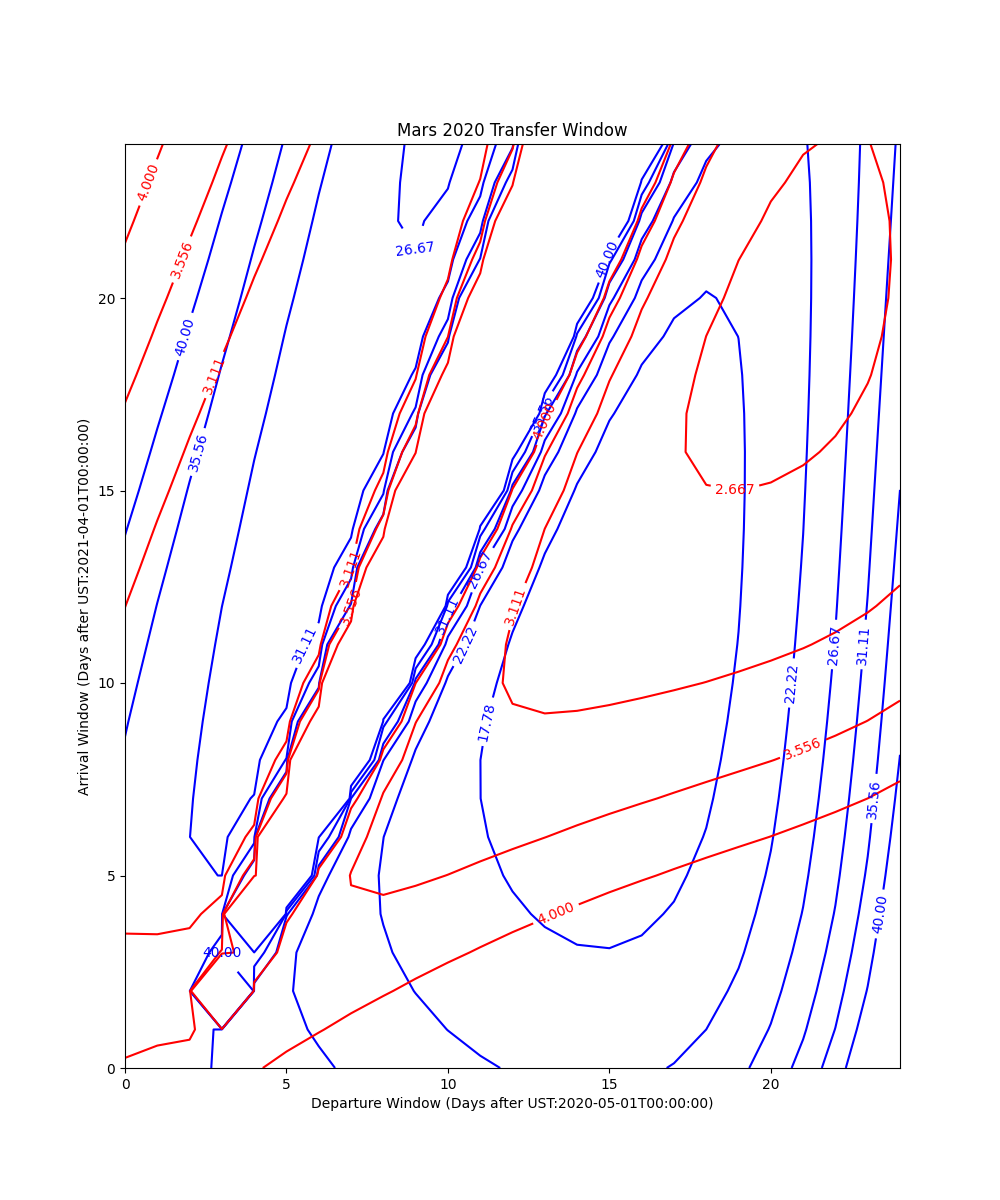
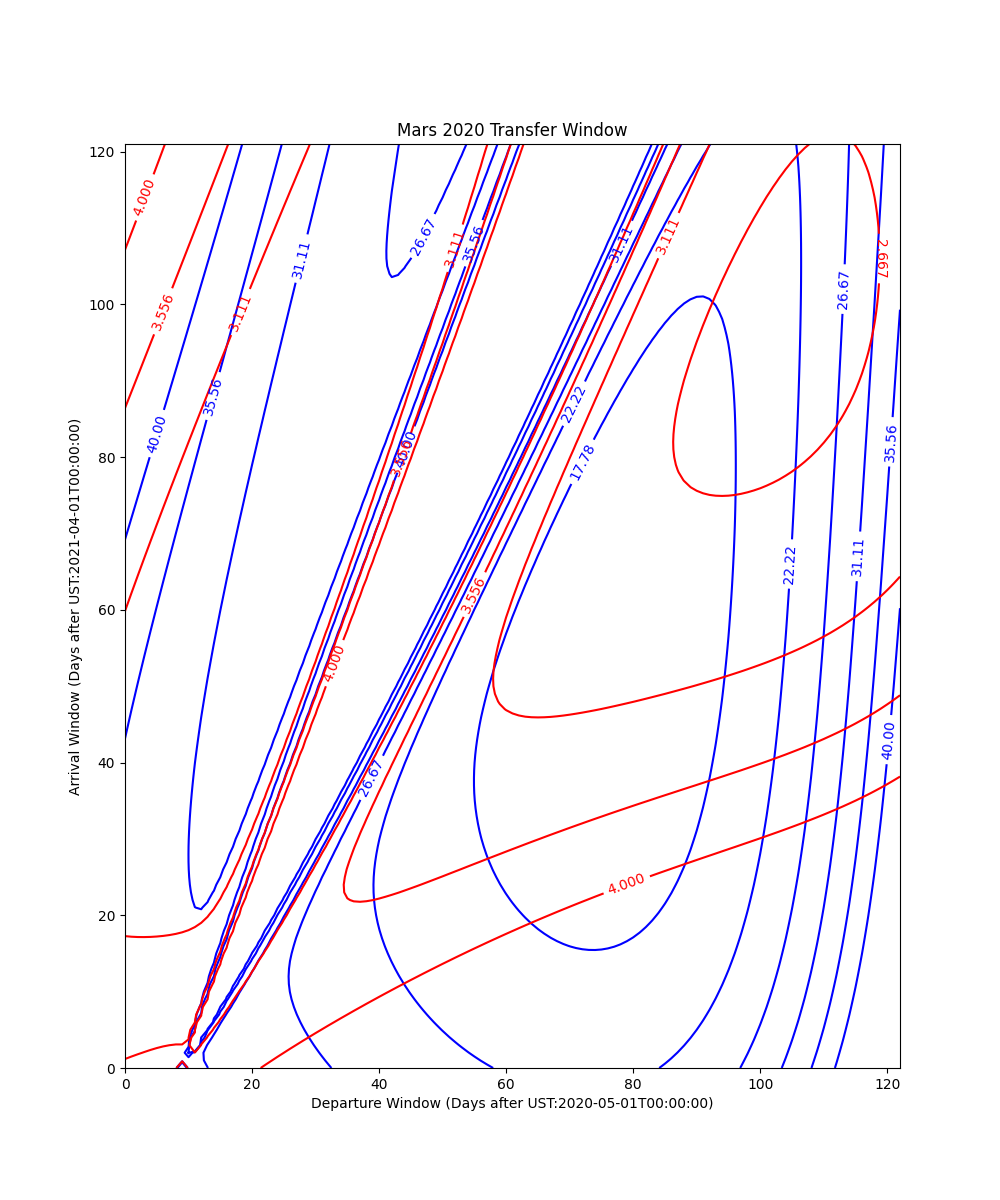
get_min_dist() computes the minimum displacement between the probe and the target planet on a given trajectory. The idea being that we can perturb the solved velocity to yield a closer encounter.

diff --git a/Gravitas_4.0/encounters.py b/Gravitas_4.0/encounters.py
@@ -40,11 +40,9 @@ def get_ephemeris_time(lower_bond, upper_bound, time_step):
     eph0, eph1 = spice.str2et(lower_bond), spice.str2et(upper_bound)
     return np.arange(eph0, eph1, time_step)
 
-
 def get_trajectory_data(origin, ets, frame, abcorr, observer):
     """Get position data array from time array"""
     return [spice.spkezr(origin, et, frame, abcorr, observer)[0] for et in ets]
-
 
 def load_ephemeris_arrays(dict_values,d_t0,a_t0,bdy_tag):
     """Returns position and velocity arrays for both departure and arrival windows"""
@@ -53,9 +51,7 @@ def load_ephemeris_arrays(dict_values,d_t0,a_t0,bdy_tag):
     __observer = dict_values["observer"]
     ets = get_ephemeris_time(str(d_t0), str(a_t0), dict_values['step'])
     trj = get_trajectory_data(dict_values[bdy_tag], ets, __frame, __abcorr, __observer)
-
     return ets, trj
-
 
 def lambert_solve(trajectory_departure, trajectory_arrival, ets_de, ets_ar, no_rotations=0):
     """_summary_
@@ -80,7 +76,7 @@ def lambert_solve(trajectory_departure, trajectory_arrival, ets_de, ets_ar, no_r
             if ets_ar[i] - ets_de[j] < 0:
                 continue    ## Ignore negative time
 
-            ##  Izzo Lambert Solver
+            ## Izzo Lambert Solver
             try:
                 lambert = izzo.lambert(
                     Sun.k, trajectory_departure[j][:3]*u.km,
@@ -106,7 +102,6 @@ def generate_porkchop(di,no_rotations=0):
     Returns:
         ndarray(4,N,3): velocity characteristics of simulation
     """
-
     try:
         ets_de, trj_de = load_ephemeris_arrays(di,di['d_time0'],di['d_time1'],'origin')
         ets_ar, trj_ar = load_ephemeris_arrays(di,di['a_time0'],di['a_time1'],'target')
@@ -141,3 +136,17 @@ def timestepped_ephemeris(dict_values,eph_trj_a,eph_trj_b,velo):
         prb_eph[q] = update_vessel_physics(prb_eph[q-1][:3],prb_eph[q-1][3:], dict_values['step'])
 
     return prb_eph
+
+def get_min_dist(dict_values,trj_a,trj_b,velo):
+    """_summary_
+
+    Args:
+        dict_values (_type_): _description_
+        trj_a (_type_): _description_
+        trj_b (_type_): _description_
+        velo (_type_): _description_
+    """
+    pos_vec = np.abs(timestepped_ephemeris(dict_values,trj_a,trj_b,velo)[:][:3] - trj_b[:][:3])
+    pos_mod = np.linalg.norm(pos_vec,axis=1)
+    min_ind = np.concatenate(np.where(pos_mod == np.min(pos_mod)))
+    return pos_vec[int(min_ind)]

diff --git a/Gravitas_4.0/time_stepped.py b/Gravitas_4.0/time_stepped.py
@@ -1,59 +1,14 @@
 """""""""""""""""""""""""""""""""
 ----------------------------------
-GRAVITAS v.4.0.1 - timestep demo
+GRAVITAS v.4.0.1 - timestep module
 by Tomas Bezkorowajnyj c. June 2025
 ----------------------------------
 """""""""""""""""""""""""""""""""
 
-import pathlib
-from datetime import datetime, timedelta
 import numpy as np
-from matplotlib import pyplot as plt
-from encounters import generate_porkchop
-from spice_video import visual_animation
-from dictionaries import m_2020
-
-##  Retrieve local file directory
-PROJ_DIR = pathlib.Path(__file__).parent.resolve()
 
 
 def get_min(arr) -> tuple[float,float]:
     """Get indices for 2d array minimum value"""
     arr_min = np.min(arr)
     return np.concatenate(np.where(arr==arr_min))
-
-
-## Transfer between planets as layed out in transfer definition
-v0, v1, vp, va  = generate_porkchop(m_2020)
-
-##  Define meshgrids for contour plot
-c3 = np.linalg.norm(v0 - vp, axis=2)**2
-vi = np.linalg.norm(v1 - va, axis=2)
-
-##  Generate figure
-fig, ax = plt.subplots(figsize=(10,12))
-c3_contour = ax.contour(c3, levels=np.linspace(0,40,10), colors=[(0.0,0.0,1.0)])
-vi_contour = ax.contour(vi, levels=np.linspace(0,4,10), colors=[(1.0,0.0,0.0)])
-ax.clabel(c3_contour, inline=1, fontsize=10)
-ax.clabel(vi_contour, inline=1, fontsize=10)
-ax.set_title(f'{m_2020["out_title"]}')
-ax.set_xlabel(f'Departure Window (Days after UST:{m_2020["d_time0"]})')
-ax.set_ylabel(f'Arrival Window (Days after UST:{m_2020["a_time1"]})')
-fig.savefig(f'{PROJ_DIR}/video_output/{m_2020["out_title"]}.png')
-
-IND_DEP = 80
-IND_ARR = 60
-
-iy, ix = get_min(vi)
-viq = v0[iy][ix]
-
-print(np.min(vi))
-print(ix,iy)
-
-departure_time = datetime.strptime(m_2020['d_time0'], "%Y-%m-%dT%H:%M:%S") + timedelta(seconds=float(ix)*m_2020['step'])
-arrival_time = datetime.strptime(m_2020['a_time0'], "%Y-%m-%dT%H:%M:%S") + timedelta(seconds=float(iy)*m_2020['step'])
-
-visual_animation(m_2020, departure_time, arrival_time, viq)
-
-plt.show()
-plt.close()

diff --git a/Gravitas_4.0/spice_video.py b/Gravitas_4.0/spice_video.py
@@ -6,7 +6,6 @@ by Tomas Bezkorowajnyj c. June 2025
 """""""""""""""""""""""""""""""""
 
 import pathlib
-import numpy as np
 import matplotlib.pyplot as plt
 import matplotlib.animation as atn
 import encounters as en
@@ -25,12 +24,12 @@ def visual_animation(dict_values, t_de, t_ar, velo):
         t_ar (string): arrival time
         velocity (string 3_): initial velocity of probe relative to sun on departure
     """
-
-    ## load ephemeris
+    ## Get seperate time and position arrays from ephemeris data
     eph_tme,eph_trj_a = en.load_ephemeris_arrays(dict_values, t_de, t_ar,'target')
     _, eph_trj_b = en.load_ephemeris_arrays(dict_values, t_de, t_ar,'origin')
-
     prb_eph = en.timestepped_ephemeris(dict_values,eph_trj_a,eph_trj_b,velo)
+
+    print(en.get_min_dist(dict_values,eph_trj_a,eph_trj_b,velo))
 
     ## Create a figure and axes
     fig, _ = plt.subplots(figsize=(10, 6))

diff --git a/Gravitas_4.0/mars_2020.py b/Gravitas_4.0/mars_2020.py
@@ -11,17 +11,11 @@ import numpy as np
 from matplotlib import pyplot as plt
 from encounters import generate_porkchop, setup_kernel, destroy_kernel
 from spice_video import visual_animation
+from time_stepped import get_min
 from dictionaries import m_2020
 
 ##  Retrieve local file directory
 PROJ_DIR = pathlib.Path(__file__).parent.resolve()
-
-
-def get_min(arr) -> tuple[float,float]:
-    """Get indices for 2d array minimum value"""
-    arr_min = np.min(arr)
-    return np.concatenate(np.where(arr==arr_min))
-
 
 ## Transfer between planets as layed out in transfer definition
 setup_kernel()

diff --git a/Gravitas_4.0/dictionaries.py b/Gravitas_4.0/dictionaries.py
@@ -17,7 +17,7 @@ m_2020 = {
     "frame":        "ECLIPJ2000",
     "abcorr":       "NONE",
 
-    "step":         3600*24*5,
+    "step":         3600*24,
     "out_title":    "Mars 2020 Transfer Window",
 }
 
